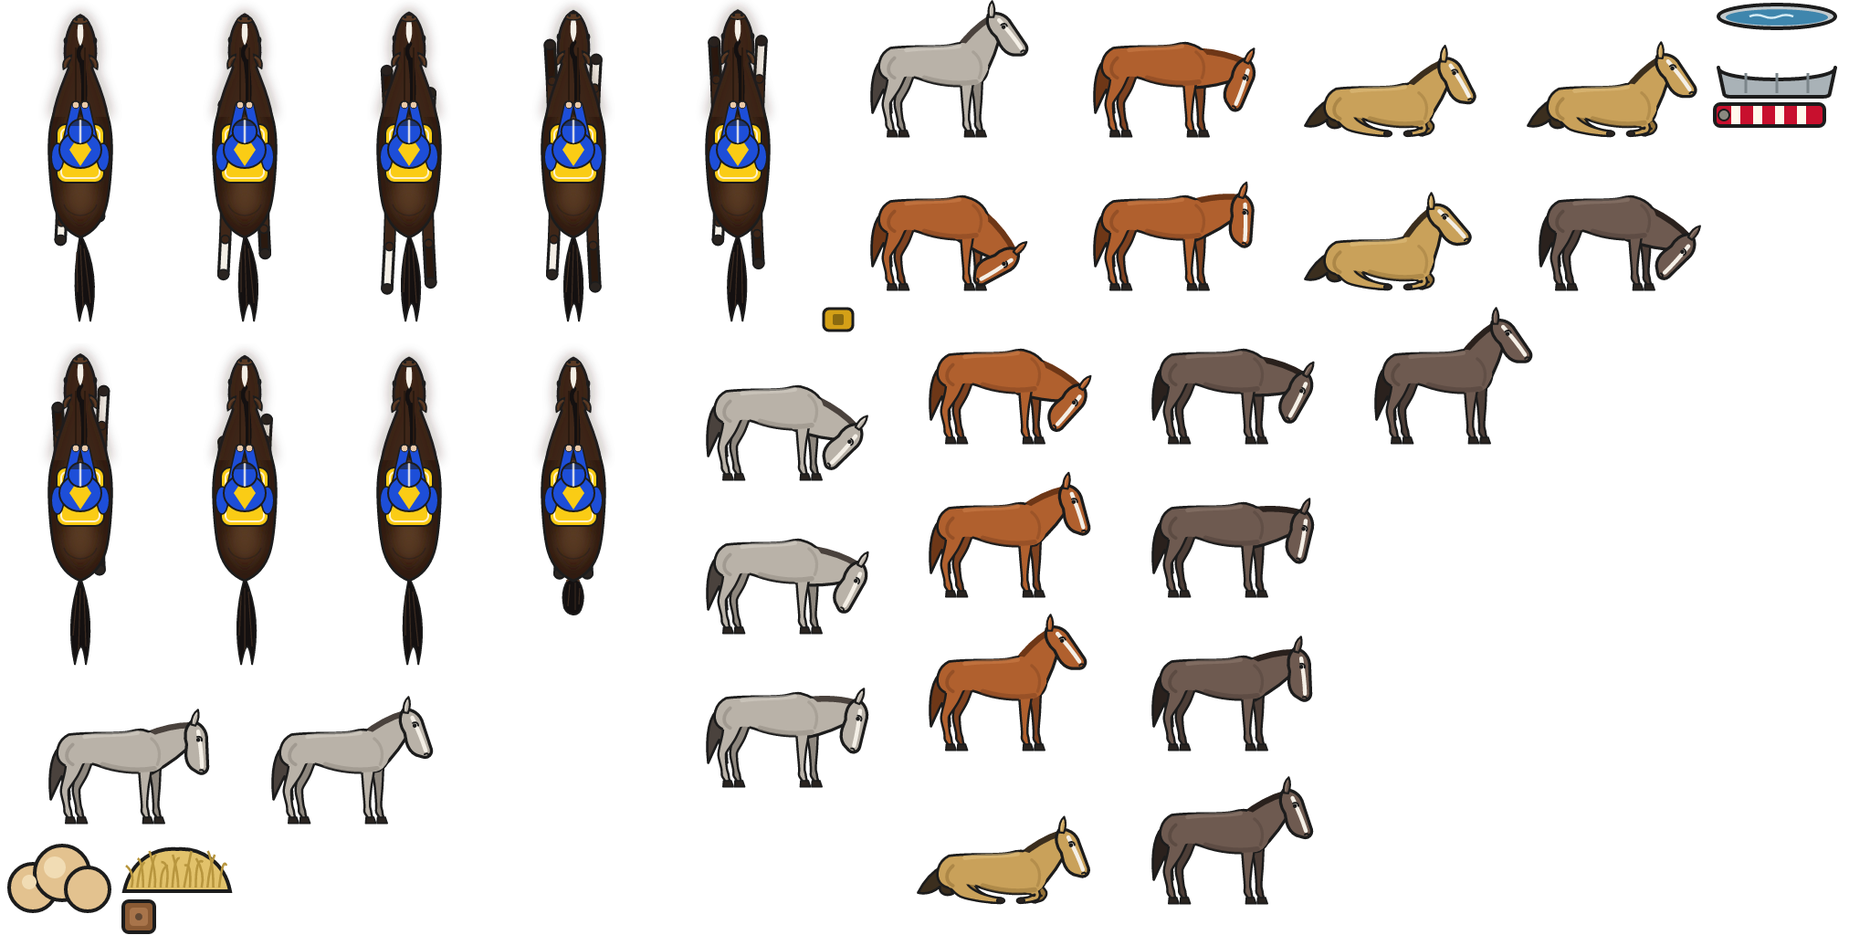
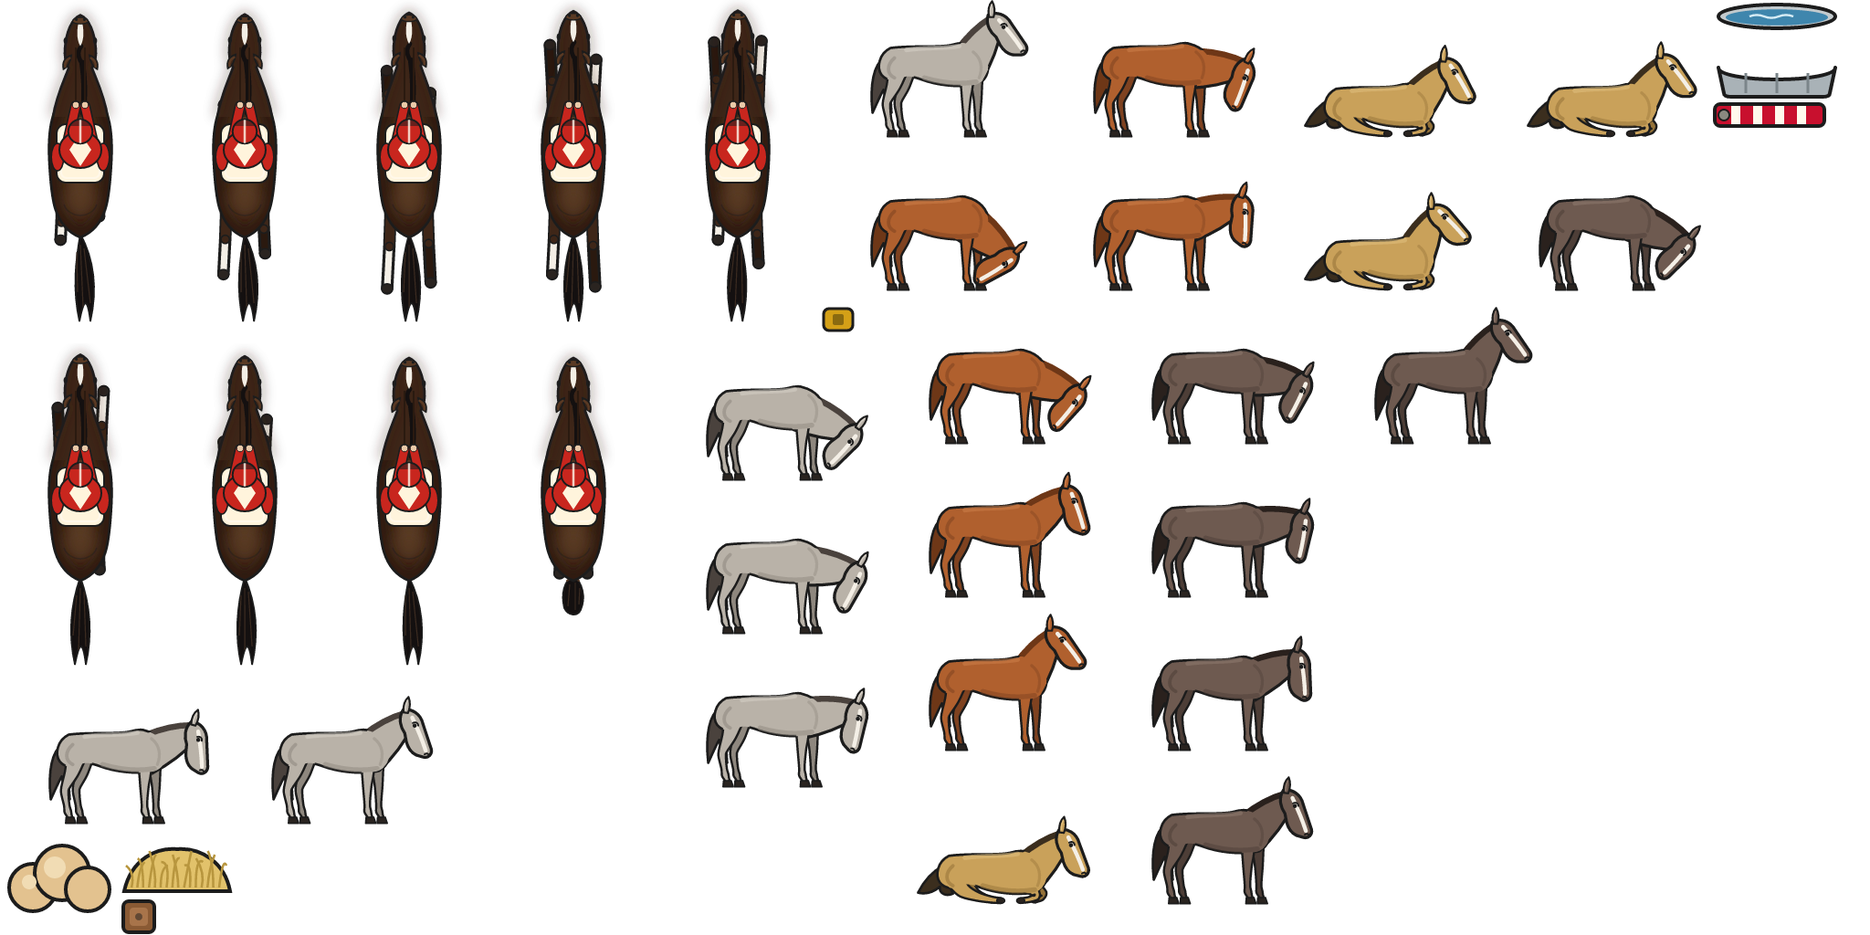
Gate Rush Dirt Track: gold sunburst and racing colours, chips by result
The Dirt Track look takes Whack Crash's sticker language in racing colours
(design canvas "Sunburst, grown up", S1): a gold sunburst HUD card with an
ink outline and hard shadow, a racing-red wordmark and DEMO, a green BET and
PLAY AGAIN, a red RIDE HOME, gold small buttons, red and cream kerbs and
silks, and bunting and confetti in the same colours. READY? is cream on its
ink outline. The live multiplier is deep red and the money bottle green:
cream on gold is 1.7:1, under the 3:1 floor useSkin enforces, so both are
checked against the card's darker ray.

Shared client, game-neutral and off by default:
- A look can recolour its wordmark (logo.colors).
- A look can colour history chips by result (history.byOutcome): in Gate
  Rush the value climbs past a shut gate, so a high value is no win. Wins
  take the win colour, every other round cream, text by readableOn.
- The last rides step aside with the controls while a round runs.
- The compact balance pill centres its label, amount and currency on the
  pill's face instead of placing them at fixed tops.

Claude-Session: https://claude.ai/code/session_01L67GjT4uGbJwXBJZN3ba2F

diff --git a/apps/gate/src/game/view.ts b/apps/gate/src/game/view.ts
@@ -59,15 +59,15 @@ const TIERS: Record<StageSkin, { tiers: [number, number][]; minis: number[] }> =
     ],
     minis: [0xffd166, 0xff7a5c, 0xe8eef5],
   },
-  // Dirt Track: every colour keeps 3:1 against the cream card the value sits on.
+  // Dirt Track: every colour keeps 3:1 against the gold sunburst card the value sits on (its darker ray).
   track: {
     tiers: [
-      [2, 0x7c3aed],
-      [5, 0xc8102e],
-      [10, 0x0b7285],
-      [25, 0xb45309],
+      [2, 0x1f6b3a],
+      [5, 0x7f1d1d],
+      [10, 0x5b2a86],
+      [25, 0xa3201a],
     ],
-    minis: [0x1d4ed8, 0xc8102e, 0x1e7b34, 0x7c3aed],
+    minis: [0xc8261e, 0x2f8a3e, 0x1a1614, 0x7f1d1d],
   },
   adult: {
     tiers: [
@@ -101,7 +101,7 @@ const BROADCAST_LOOK: Partial<ScreenLook> = {
   balance: { x: BC.right, y: BC.header, width: BC.right - 184, compact: true },
   // The last rides share the second row with the controls (from 224): the strip stops 8 short of them, and
   // its chips are the controls' 32 height so the row lines up.
-  history: { x: BC.margin, y: BC.row2, w: 224 - 8 - BC.margin, chipH: 32 },
+  history: { x: BC.margin, y: BC.row2, w: 224 - 8 - BC.margin, chipH: 32, byOutcome: true },
   controls: { x: 224, y: BC.row2, size: 32, gap: 8, horizontal: true },
   // Measured ink on screen: value 100–160, money 164–191, label 208–217, chance line 230–239, gauge 246–250.
   value: { x: BC.right, anchor: 1, valueY: BC.data, valueSize: 52, payoutY: 168, payoutSize: 30, labelY: 205, chanceY: 234 },
@@ -123,10 +123,12 @@ const BROADCAST_GAUGE = { x: 200, y: 246, w: 176, h: 4 };
  * a row over the track, above the stake row; the painted ground is the chance table, so there is no tower.
  */
 const TRACK_LOOK: Partial<ScreenLook> = {
-  logo: { x: 24, y: 19, w: 104, h: 30 },
+  // The design's wordmark: a racing-red tag, GATE in cream and RUSH in gold (the value's red would sink into it).
+  logo: { x: 24, y: 19, w: 104, h: 30, colors: { fill: 0xc8261e, first: 0xfff4dc, second: 0xffd24a } },
   demo: { x: 136, y: 19, w: 52, h: 30, underHistory: false },
-  balance: { x: 366, y: 18, width: 168, compact: true },
-  history: { x: 14, y: 626, w: 224 - 8 - 14, chipH: 32 },
+  balance: { x: 366, y: 19, width: 168, compact: true },
+  // Coloured by result: in Gate Rush the value climbs on past a shut gate, so a high value is no win.
+  history: { x: 14, y: 626, w: 224 - 8 - 14, chipH: 32, byOutcome: true },
   controls: { x: 224, y: 626, size: 32, gap: 8, horizontal: true },
   value: { x: 195, anchor: 0.5, valueY: 66, valueSize: 62, payoutY: 136, payoutSize: 28, labelY: 170, chanceY: 191 },
   liveText: { x: 195, width: 330 },
@@ -256,7 +258,7 @@ export class GateView extends CrashScreen {
     const track = this.skin === 'track';
     this.gauge.visible = true;
     this.gauge.roundRect(x, y, w, h, h / 2).fill(track ? { color: COLORS.ink, alpha: 0.15 } : { color: COLORS.cream, alpha: 0.25 });
-    this.gauge.roundRect(x, y, Math.max(h, (w * Math.max(0, Math.min(100, percent))) / 100), h, h / 2).fill(track ? 0x1d4ed8 : 0xd90429);
+    this.gauge.roundRect(x, y, Math.max(h, (w * Math.max(0, Math.min(100, percent))) / 100), h, h / 2).fill(track ? COLORS.ink : 0xd90429);
   }
 
   /**
@@ -347,8 +349,8 @@ export class GateView extends CrashScreen {
 
   /** Broadcast: one action colour, the red of the flash tag. Paddock keeps the shared defaults. */
   protected override actionColors(): { ready: number; running: number; celebrate: number } {
-    // Dirt Track: the black button of the design, in every state; the result is on the card.
-    if (this.skin === 'track') return { ready: 0x1c1c1c, running: 0x1c1c1c, celebrate: 0x1c1c1c };
+    // Dirt Track: green to bet (and to play again), racing red to ride home, as on Whack Crash's lime and pink.
+    if (this.skin === 'track') return { ready: 0x2f8a3e, running: 0xc8261e, celebrate: 0x2f8a3e };
     if (this.skin !== 'broadcast') return super.actionColors();
     // One red for every state: the broadcast look carries the result on the card, not the button.
     return { ready: 0xd90429, running: 0xd90429, celebrate: 0xd90429 };
@@ -374,7 +376,9 @@ export class GateView extends CrashScreen {
     // chances are on the rules screen before any bet, and on the screen once the rider is out.
     this.tower.visible = this.skin !== 'broadcast' && this.skin !== 'track' && this.towerRows.length > 0;
     this.gauge.visible = false;
-    this.multiplierText.style.fill = this.baseFill;
+    // Dirt Track's READY? is a title, not a value: cream carried by its ink outline, as on the design and on
+    // Whack Crash. The multiplier that replaces it keeps its checked red (showRunning).
+    this.multiplierText.style.fill = this.skin === 'track' ? COLORS.cream : this.baseFill;
     // Milestone badges and flying numbers only: the tower and the gauge live here too and are reused.
     for (const child of [...this.effects.children]) {
       if (child === this.tower || child === this.gauge || child === this.revealBar) continue;
@@ -508,7 +512,7 @@ export class GateView extends CrashScreen {
   private party(big: boolean): void {
     this.gate.celebrate(big);
     if (!this.intensityEffects || prefersReducedMotion()) return;
-    const colors = this.skin === 'track' ? [0xc8102e, 0x1d4ed8, 0xfacc15, 0x1e7b34, 0xfff9ec] : [0xffd166, 0xffffff, 0xd90429, 0xff7a5c, 0x7cc4b2];
+    const colors = this.skin === 'track' ? [0xc8261e, 0xffd24a, 0x2f8a3e, 0xfff4dc] : [0xffd166, 0xffffff, 0xd90429, 0xff7a5c, 0x7cc4b2];
     // Launch speeds keep every piece below the result card (it ends at 250): the amount won must stay
     // readable, so the confetti peaks over the stand, not over the card.
     this.confetti.burst({ x: FRAME_W / 2, y: 620, count: big ? 150 : 90, speed: 900, colors, outline: 0x0d0f14 });

diff --git a/apps/gate/src/game/track.ts b/apps/gate/src/game/track.ts
@@ -112,12 +112,18 @@ export function secondsTo(m: number, config: GameConfig): number {
   return hi;
 }
 
+/** The HUD card: a gold sunburst, Whack Crash's card in racing colours. main.ts checks the values against the ray. */
+export const TRACK_CARD = { fill: 0xf2b705, ray: 0xe5a800, ink: 0x1a1614 };
+
+/** Racing colours for the scene's own paint: kerbs, bunting, silks, confetti. */
+const RACING = { red: 0xc8261e, cream: 0xfff4dc, gold: 0xffd24a, green: 0x2f8a3e, ink: 0x1a1614 };
+
 const PALETTE = {
   dirt: 0xdda05c,
   groove: 0xc48f52,
   pebble: 0xb98247,
-  grass: 0x5fae3e,
-  grass2: 0x4e9632,
+  grass: 0x4f9a34,
+  grass2: 0x468c2e,
   rail: 0xfafaf5,
   railShadow: 0x9c6b36,
   ink: 0x1c1c1c,
@@ -196,7 +202,7 @@ export class TrackStage extends Container {
   private readonly party = new Container();
   private readonly dark = new Graphics();
   private readonly spot = new Graphics();
-  private readonly card = new Graphics();
+  private readonly card = new Container();
   /** The scene is drawn into this and shown through the tilted mesh. */
   private readonly picture: RenderTexture;
   private readonly tilted: PerspectiveMesh;
@@ -770,7 +776,7 @@ export class TrackStage extends Container {
 
   /** Paint confetti off a crossed line: a burst of coloured flecks that spray out and fall. */
   private splash(y: number): void {
-    const colours = [0xffe14d, 0xe63946, 0x1d4ed8, 0x2e9447, 0xffffff];
+    const colours = [RACING.gold, RACING.red, RACING.green, RACING.cream];
     for (let i = 0; i < 28; i++) {
       const f = new Graphics().rect(-3, -2, 6, 4).fill(colours[i % colours.length]!);
       f.position.set(RAIL_L + 20 + Math.random() * (RAIL_R - RAIL_L - 40), y);
@@ -966,7 +972,7 @@ export class TrackStage extends Container {
 
   /** One firework over the track: the shell bursts into a ring of stars that falls a little and fades. */
   private firework(x: number, y: number, big: boolean): void {
-    const colours = [0xc8102e, 0x1d4ed8, 0xfacc15, 0x1e7b34, 0xffffff];
+    const colours = [RACING.red, RACING.gold, RACING.green, RACING.cream];
     const colour = colours[Math.floor(Math.random() * colours.length)]!;
     const sparks = big ? 28 : 20;
     const radius = (big ? 90 : 66) * (0.8 + Math.random() * 0.4);
@@ -1009,14 +1015,27 @@ export class TrackStage extends Container {
 
   /** The HUD card the shared screen writes the value, the money and the chance on. */
   private drawCard(): void {
-    this.card
-      .roundRect(17, 17, W - 24, 214, 12)
-      .fill(PALETTE.railShadow)
-      .roundRect(12, 12, W - 24, 214, 12)
-      .fill(0xfff9ec)
-      .stroke({ color: PALETTE.ink, width: 3 })
-      .rect(24, 54, W - 48, 2)
-      .fill(PALETTE.ink);
+    const { fill, ray, ink } = TRACK_CARD;
+    const x = 12;
+    const y = 12;
+    const w = W - 24;
+    const h = 214;
+    const r = 16;
+    // Hard ink drop shadow, then the gold face with its sunburst, clipped to the card by a mask.
+    const face = new Graphics().roundRect(x, y + 5, w, h, r).fill(ink).roundRect(x, y, w, h, r).fill(fill);
+    const rays = new Graphics();
+    const cx = W / 2;
+    const cy = y + h * 0.62;
+    const n = 40;
+    for (let i = 0; i < n; i += 2) {
+      const a0 = (i / n) * Math.PI * 2;
+      const a1 = ((i + 1) / n) * Math.PI * 2;
+      rays.poly([cx, cy, cx + Math.cos(a0) * 400, cy + Math.sin(a0) * 400, cx + Math.cos(a1) * 400, cy + Math.sin(a1) * 400]).fill(ray);
+    }
+    const clip = new Graphics().roundRect(x, y, w, h, r).fill(0xffffff);
+    rays.mask = clip;
+    const edge = new Graphics().roundRect(x, y, w, h, r).stroke({ color: ink, width: 3.5 });
+    this.card.addChild(face, rays, clip, edge);
   }
 
   /** Harrowed dirt between white rails on grass verges, one tile tall; the posts are part of it, so they pass with the ground. */
@@ -1037,11 +1056,11 @@ export class TrackStage extends Container {
     }
     // Racing kerbs just inside each rail, red and white, 32 px a block, so they scroll with the ground.
     for (const kx of [RAIL_L + 3, RAIL_R - 13]) {
-      for (let y = 0; y < TILE; y += 32) g.rect(kx, y, 10, 32).fill((y / 32) % 2 ? 0xffffff : 0xe63946);
+      for (let y = 0; y < TILE; y += 32) g.rect(kx, y, 10, 32).fill((y / 32) % 2 ? RACING.cream : RACING.red);
       g.rect(kx, 0, 10, TILE).stroke({ color: PALETTE.ink, width: 1, alpha: 0.35 });
     }
     // Bunting along the outside of each rail: pennants in bright colours on a line.
-    const pennants = [0xe63946, 0xffe14d, 0x1d4ed8, 0xffffff, 0x2e9447];
+    const pennants = [RACING.red, RACING.cream, RACING.ink];
     for (const [bx, dir] of [[RAIL_L - 9, -1], [RAIL_R + 9, 1]] as [number, number][]) {
       g.moveTo(bx, 0).lineTo(bx, TILE).stroke({ color: 0x333333, width: 1 });
       for (let y = 0, n = 0; y < TILE; y += 16, n++) g.poly([bx, y, bx, y + 11, bx + dir * 9, y + 5.5]).fill(pennants[n % pennants.length]!);

diff --git a/packages/crash-client/src/ui/hud.ts b/packages/crash-client/src/ui/hud.ts
@@ -3,19 +3,27 @@ import { t } from '../i18n';
 import { gsap, pop } from '@triptown/engine';
 import { formatMinor, type CurrencyRules } from '@triptown/core';
 import { formatMultiplier } from '../game/display';
-import { bandColors, COLORS } from '../theme';
+import { bandColors, COLORS, outcomeColors, SHAPE } from '../theme';
 import { bodyStyle, displayStyle, drawSticker, labelStyle, text } from './primitives';
+
+/** A wordmark's own colours: its sticker and its two words. Unset, they follow the palette. */
+export interface LogoColors {
+  fill?: number;
+  first?: number;
+  second?: number;
+}
 
 /** The game's wordmark. Each game passes its own two words; the shared client knows none of them. */
 export class Logo extends Container {
   /** With `box`, the wordmark is drawn flat inside that exact rectangle, words centred, for a gridded look. */
-  constructor(first: string, second: string, size = 22, box?: { w: number; h: number }) {
+  constructor(first: string, second: string, size = 22, box?: { w: number; h: number }, colors: LogoColors = {}) {
     super();
     const bg = new Graphics();
-    const a = text(first, displayStyle(size, COLORS.cream, 3));
-    const b = text(second, displayStyle(size, COLORS.sun, 3));
+    const fill = colors.fill ?? COLORS.pink;
+    const a = text(first, displayStyle(size, colors.first ?? COLORS.cream, 3));
+    const b = text(second, displayStyle(size, colors.second ?? COLORS.sun, 3));
     if (box) {
-      drawSticker(bg, box.w, box.h, { fill: COLORS.pink, radius: 14, border: 4, shadow: 4 });
+      drawSticker(bg, box.w, box.h, { fill, radius: 14, border: 4, shadow: 4 });
       const gap = size * 0.2;
       const total = a.width + gap + b.width;
       a.position.set((box.w - total) / 2, (box.h - a.height) / 2);
@@ -32,7 +40,7 @@ export class Logo extends Container {
     const inkLift = size * 0.082;
     a.position.set(padX, padY - inkLift);
     b.position.set(padX + a.width + size * 0.2, padY - inkLift);
-    drawSticker(bg, b.x + b.width + padX, a.height + padY * 2 - 4, { fill: COLORS.pink, radius: 14, border: 4, shadow: 4 });
+    drawSticker(bg, b.x + b.width + padX, a.height + padY * 2 - 4, { fill, radius: 14, border: 4, shadow: 4 });
     this.addChild(bg, a, b);
     this.rotation = (-3 * Math.PI) / 180;
   }
@@ -99,9 +107,13 @@ export class BalancePill extends Container {
       const w = maxWidth === Infinity ? this.key.width + this.value.width + this.unit.width + 4 + padX * 2 + 12 : maxWidth;
       drawSticker(this.bg, w, 32, { fill: COLORS.cream, radius: 14, border: 4, shadow: 4 });
       this.bg.x = -w;
-      this.key.position.set(-w + padX + this.key.width, 11);
-      this.unit.position.set(-padX, 11);
-      this.value.position.set(-padX - this.unit.width - 4, 6);
+      // Each word centred on the pill's face (above its drop shadow), so words of three sizes share one
+      // midline: fixed tops put the amount, which carries texture padding, visibly higher than the label.
+      const mid = (32 - 4 * SHAPE.shadow) / 2;
+      for (const word of [this.key, this.unit, this.value]) word.anchor.set(1, 0.5);
+      this.key.position.set(-w + padX + this.key.width, mid);
+      this.unit.position.set(-padX, mid + 1);
+      this.value.position.set(-padX - this.unit.width - 4, mid);
       if (changed) pop(this.value, 1.15, 0.25);
       return;
     }
@@ -187,6 +199,11 @@ export class HistoryStrip extends Container {
   private dragged = false;
   /** Chip height, so a look can line the chips up with whatever shares their row. */
   private chipH = 30;
+  /**
+   * Colour chips by the round's result (a win against everything else) rather than by the value's band.
+   * For a game whose value keeps climbing past a round already lost, where a high band is no win.
+   */
+  byOutcome = false;
   /** Set by the view: opens the full history dialog. */
   onOpen: (() => void) | null = null;
 
@@ -266,7 +283,7 @@ export class HistoryStrip extends Container {
     this.chips.x = 0;
     let x = 0;
     for (const v of this.values) {
-      const { fill, text: tc } = bandColors(v.multiplier);
+      const { fill, text: tc } = this.byOutcome ? outcomeColors(v.kind) : bandColors(v.multiplier);
       // A marker and a sign, so the result survives greyscale and colour blindness (GLI-19 4.14).
       const mark = v.kind === 'win' ? '✓' : v.kind === 'void' ? '•' : '✕';
       const label = text(`${mark} ${formatMultiplier(v.multiplier)}`, bodyStyle(13, tc), [0.5, 0.5]);

diff --git a/packages/crash-client/src/game/screen.ts b/packages/crash-client/src/game/screen.ts
@@ -2,7 +2,7 @@ import { Container, Graphics, type Application, type Text, type Texture } from '
 import type { ResultKind } from '@triptown/core';
 import { gsap, prefersReducedMotion, type GameApp } from '@triptown/engine';
 import { t } from '../i18n';
-import { BalancePill, HistoryStrip, Logo, SessionStrip } from '../ui/hud';
+import { BalancePill, HistoryStrip, Logo, SessionStrip, type LogoColors } from '../ui/hud';
 import { IconButton, StatBox, StickerButton, bodyStyle, displayStyle, drawSticker, labelStyle, text } from '../ui/primitives';
 import { COLORS, onStage, readableOn } from '../theme';
 import { CrashViewBase, type ActionControl } from './view-base';
@@ -41,16 +41,20 @@ export interface LayoutBox {
  * the first layout already has it: a hook on a subclass field runs before that field exists.
  */
 export interface ScreenLook {
-  /** With w and h, the wordmark is a flat box of that size; otherwise the tilted sticker. */
-  logo: { x: number; y: number; w?: number; h?: number };
+  /**
+   * With w and h, the wordmark is a flat box of that size; otherwise the tilted sticker. `colors` recolours
+   * it (sticker, first word, second word) for a look whose value colour does not suit the second word.
+   */
+  logo: { x: number; y: number; w?: number; h?: number; colors?: LogoColors };
   /** Right-anchored. `compact` is a single 32px line filling `width`. */
   balance: { x: number; y: number; width: number; compact: boolean };
   /**
    * The history strip's top when no session strip shows; it drops 32 when one does. `w` stops it short of
    * anything sharing its row (default: the full row); older rides scroll off its right edge. `chipH` sets
-   * the chips' height, to match whatever shares the row (default 30).
+   * the chips' height, to match whatever shares the row (default 30). `byOutcome` colours a chip by the
+   * round's result instead of the value's band.
    */
-  history: { x: number; y: number; w?: number; chipH?: number };
+  history: { x: number; y: number; w?: number; chipH?: number; byOutcome?: boolean };
   /** The DEMO badge's rectangle; `underHistory` puts it just below the history strip instead. */
   demo: { x: number; y: number; w: number; h: number; underHistory: boolean };
   /** The sound, fairness, rules and history controls: a column by default, or a row. */
@@ -266,7 +270,7 @@ export abstract class CrashScreen extends CrashViewBase implements CrashView {
     this.renderer = app.renderer;
     this.balance = new BalancePill(false, this.look.balance.compact);
     const logoBox = this.look.logo.w && this.look.logo.h ? { w: this.look.logo.w, h: this.look.logo.h } : undefined;
-    this.logo = new Logo(words.logo[0], words.logo[1], logoBox ? 16 : 22, logoBox);
+    this.logo = new Logo(words.logo[0], words.logo[1], logoBox ? 16 : 22, logoBox, this.look.logo.colors);
 
     this.statBet = new StatBox(t('label.stake'), this.hasAutoCashout() ? STAKE_W : STAKE_W_ALONE, 44);
     this.statAuto = new StatBox(t('label.auto'), AUTO_W, 44);
@@ -560,6 +564,9 @@ export abstract class CrashScreen extends CrashViewBase implements CrashView {
 
   private applyControls(): void {
     for (const b of this.controls) b.visible = !this.controlsHidden && (b !== this.soundBtn || this.audioAvailable);
+    // The last rides share the stage with the round the same way: they step aside with the controls, so
+    // nothing from an earlier round shows while this one runs.
+    this.history.visible = !this.controlsHidden;
     this.placeControls();
   }
 
@@ -610,6 +617,7 @@ export abstract class CrashScreen extends CrashViewBase implements CrashView {
     const { look } = this;
     const historyY = this.session.visible ? look.history.y + 32 : look.history.y;
     this.history.position.set(look.history.x, historyY);
+    this.history.byOutcome = look.history.byOutcome ?? false;
     this.history.resize(look.history.w ?? W - PAD * 2, look.history.chipH);
     // Chips are 30 px tall with a 3 px shadow; the badge sits a small gap below them.
     if (look.demo.underHistory) this.demoBadge.position.set(look.demo.x + look.demo.w / 2, historyY + 33 + 8 + look.demo.h / 2);

diff --git a/apps/gate/src/main.ts b/apps/gate/src/main.ts
@@ -19,7 +19,7 @@ import bands from '@triptown/fairness/reports/bands.json';
 import type { BandsByConfig } from '@triptown/fairness';
 import { t } from './i18n/en';
 import { HEADING_CUE, STAGE_PALETTES } from './game/stage';
-import { trackCheckpoints } from './game/track';
+import { TRACK_CARD, trackCheckpoints } from './game/track';
 import { GateView } from './game/view';
 import { createRoundService, demoBetMinor, DEMO } from './services';
 
@@ -84,15 +84,17 @@ const BROADCAST = {
 };
 
 /**
- * Dirt Track (chosen 24 Sep 2026): the top-down look. The values sit on a cream card: the multiplier in
- * blue, money in green, the loss card red, the action button black, the small buttons the silks' yellow. Condensed display type, and sticker
- * panels at about half weight, as on the design's card.
+ * Dirt Track (chosen 24 Sep 2026), in the Gold & Racing Red colours (S1, 24 Sep): Whack Crash's sticker
+ * language on a gold sunburst card, in racing colours rather than candy ones. The multiplier is a deep
+ * racing red: cream on gold reads only through its outline (1.7:1), under the 3:1 floor useSkin enforces,
+ * and ink fills in against its own ink outline. Money in bottle green, DEMO racing red, the small buttons
+ * gold; the wordmark's colours are the view's look. The action colours are the view's.
  */
 const DIRT_TRACK = {
-  colors: { sun: 0x1d4ed8, lime: 0x1e7b34, lime2: 0x2e9447, violet: 0xb3261e, sky: 0xfacc15, pink: 0xfacc15, ink: 0x1c1c1c, cream: 0xfff9ec },
-  ground: STAGE_PALETTES.track.night,
-  display: 'Barlow Condensed, Barlow, Arial Narrow, sans-serif',
-  shape: { border: 0.6, shadow: 0.6, radius: 0.45 },
+  colors: { sun: 0xa3201a, lime: 0x1f6b3a, lime2: 0x2f8a3e, violet: 0xb3261e, sky: 0xffd24a, pink: 0xc8261e, ink: 0x1a1614, cream: 0xfff4dc },
+  // The card's darker ray, the stricter of the two golds the values sit on.
+  ground: TRACK_CARD.ray,
+  shape: { border: 0.85, shadow: 0.85, radius: 0.8 },
 };
 
 async function boot() {

diff --git a/packages/crash-client/src/theme.ts b/packages/crash-client/src/theme.ts
@@ -227,3 +227,12 @@ export function bandColors(multiplier: number): { fill: number; text: number } {
   if (multiplier < 10) return { fill: COLORS.lime, text: COLORS.ink };
   return { fill: COLORS.pink, text: COLORS.cream };
 }
+
+/**
+ * History chip colours by result: a win (a return above the stake) in the win colour, every other round
+ * plain cream. Text is whichever of ink or cream reads on the fill.
+ */
+export function outcomeColors(kind: 'win' | 'even' | 'loss' | 'void'): { fill: number; text: number } {
+  const fill = kind === 'win' ? COLORS.lime : COLORS.cream;
+  return { fill, text: readableOn(fill) };
+}
